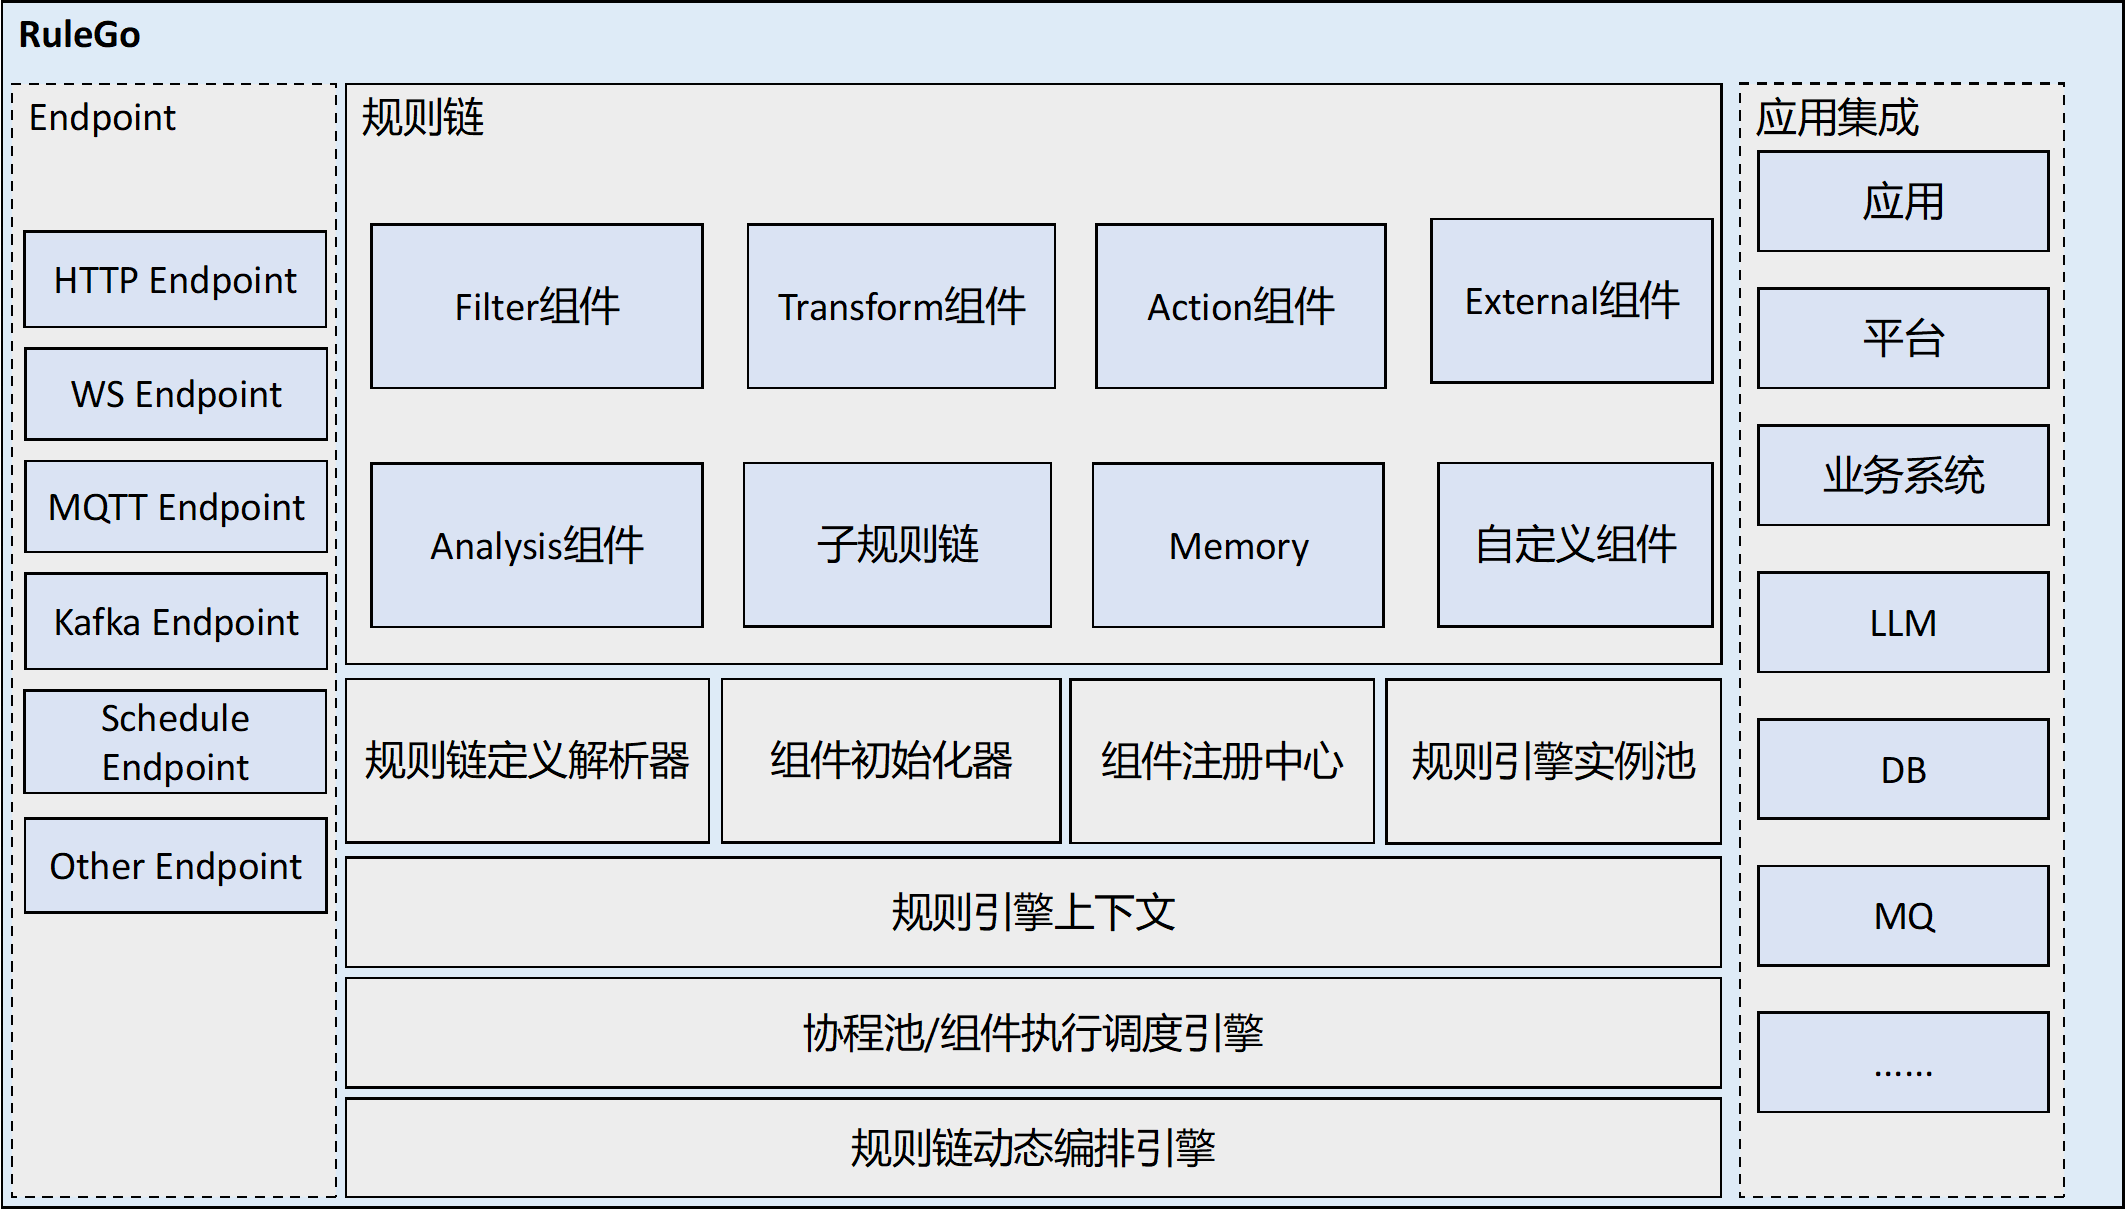
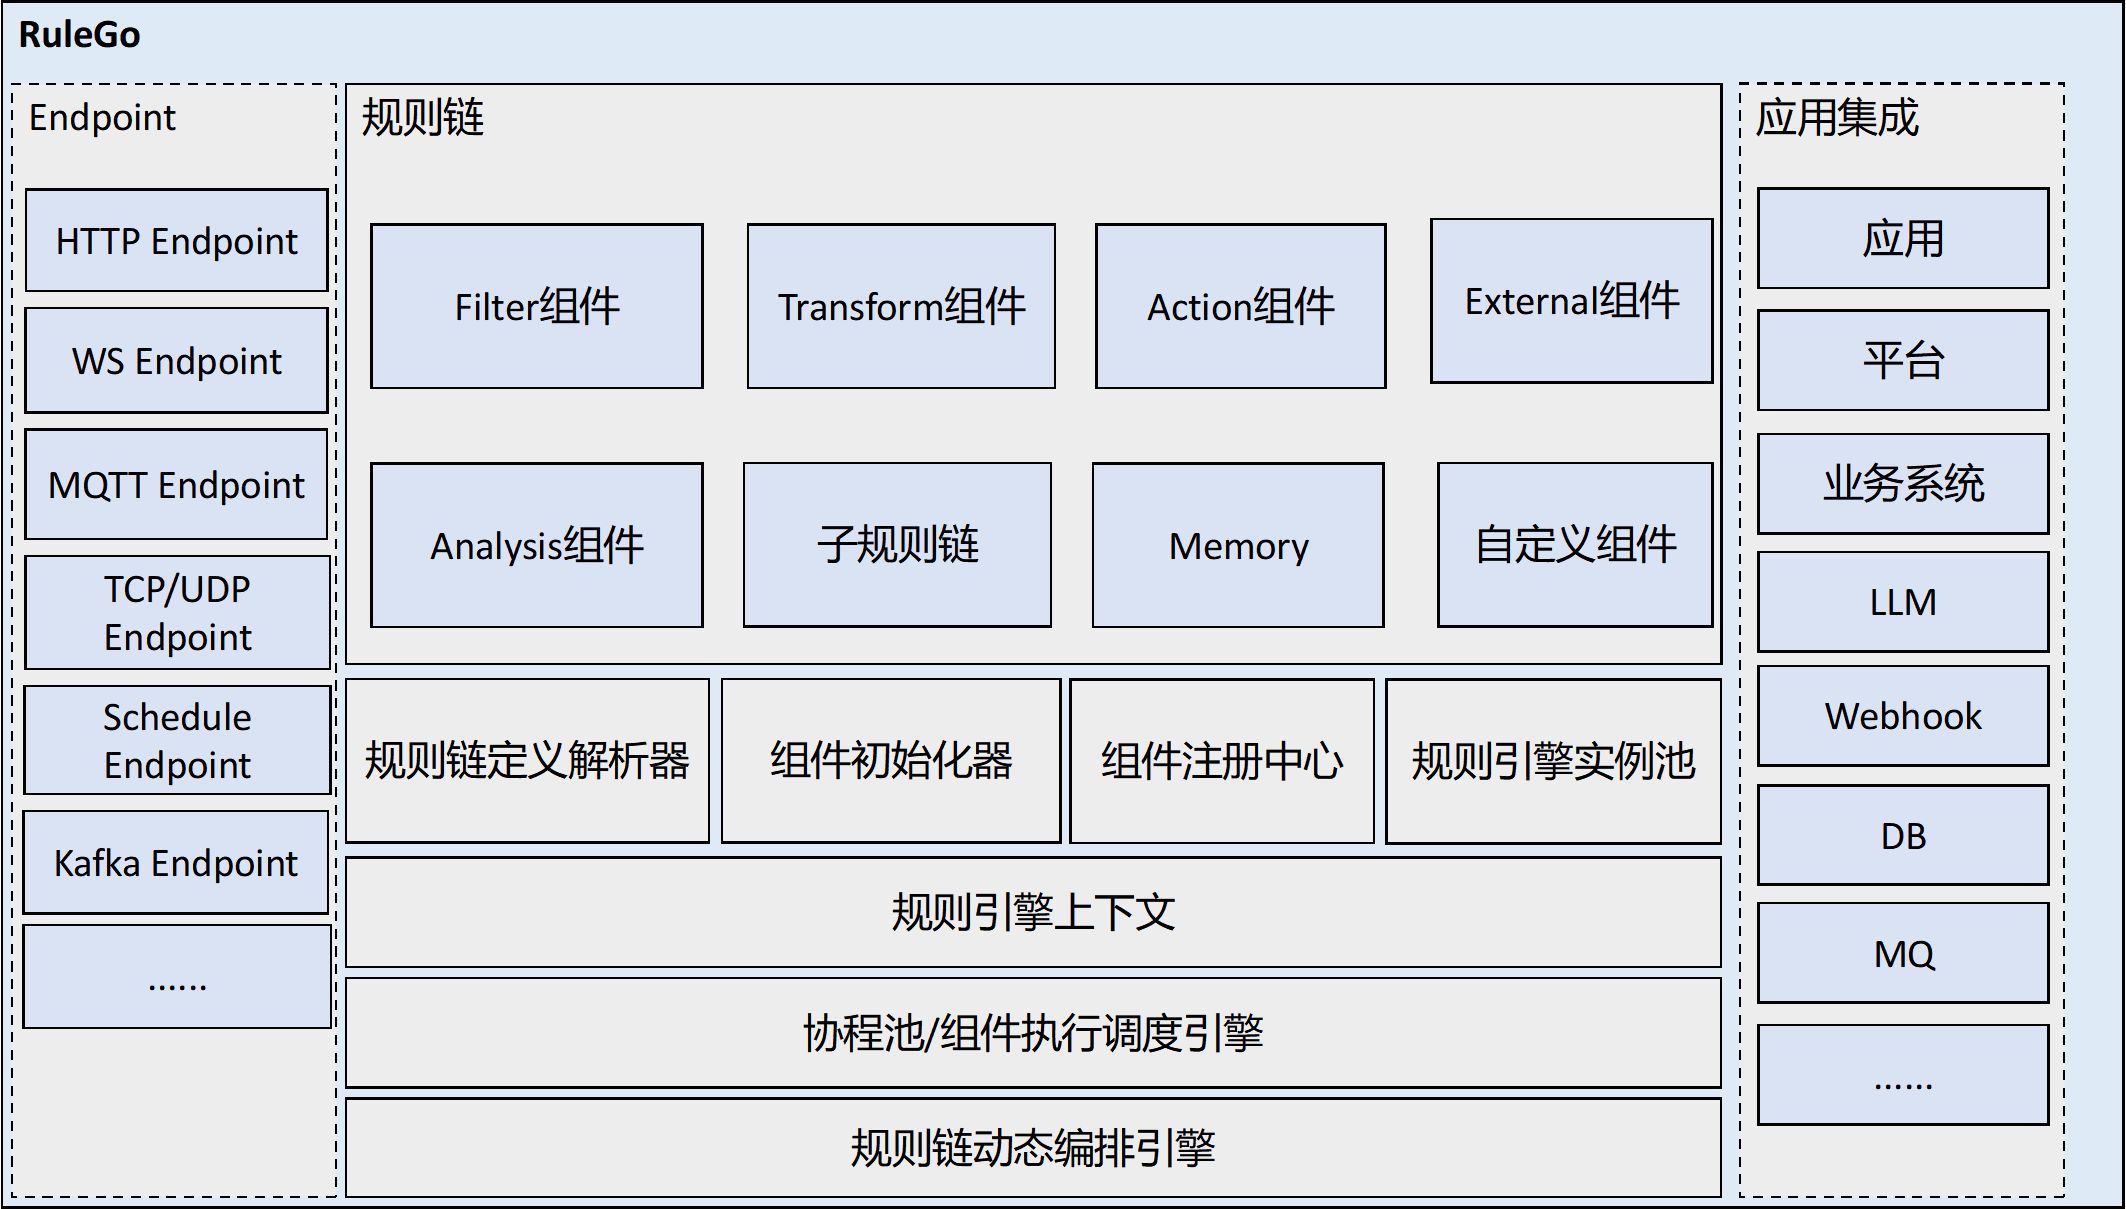
更新架构图和微信群图

diff --git a/docs/01.指南/01.快速入门/02.使用场景.md b/docs/01.指南/01.快速入门/02.使用场景.md
@@ -23,8 +23,8 @@ permalink: /pages/7617e6/
 * **边缘计算：** 可以在边缘服务器部署`RuleGo`，对数据进行预处理，筛选、聚合或者计算后再上报到云端。数据的处理规则和分发规则可以通过规则链动态配置和修改，而不需要重启系统。
 * **物联网：** 收集设备数据上报，经过规则链的规则判断，触发一个或者多个动作，例如：发邮件、发告警、和其他设备或者系统联动。
 * **数据分发：** 可以根据不同的消息类型，调用HTTP、MQTT或者gRPC把数据分发到不同系统。
-* **应用集成：** 把`RuleGo`当做胶水连接各种系统或者协议，例如：kafka、消息队列、数据库、chatGPT、第三方应用系统。
-* **异构系统数据集中处理：** 从不同的数据源（如 MQTT、HTTP 等）接收数据，然后对数据进行过滤、格式转换、然后分发到数据库、业务系统或者仪表板。
+* **应用集成：** 把`RuleGo`当做胶水连接各种系统或者协议，例如：ssh、webhook、kafka、消息队列、数据库、chatGPT、第三方应用系统。
+* **异构系统数据集中处理：** 从不同的数据源（如 MQTT、HTTP、TCP/UDP 等）接收数据，然后对数据进行过滤、格式转换、然后分发到数据库、业务系统或者仪表板。
 * **高度定制化业务：** 把高度定制化或者经常变化的业务解耦出来，交给`RuleGo`规则链进行管理。业务需求变化而不需要重启主程序。
 * **复杂业务编排：** 把业务封装成自定义组件，通过`RuleGo`编排和驱动这些自定义的组件，业务逻辑并支持动态调整和替换。
 * **微服务编排：** 通过`RuleGo`编排和驱动微服务，或者动态调用第三方服务处理业务，并返回结果。

diff --git a/docs/index.md b/docs/index.md
@@ -84,8 +84,8 @@ hideRightBar: true
 * **边缘计算：** 可以在边缘服务器部署`RuleGo`，对数据进行预处理，筛选、聚合或者计算后再上报到云端。数据的处理规则和分发规则可以通过规则链动态配置和修改，而不需要重启系统。
 * **物联网：** 收集设备数据上报，经过规则链的规则判断，触发一个或者多个动作，例如：发邮件、发告警、和其他设备或者系统联动。
 * **数据分发：** 可以根据不同的消息类型，调用HTTP、MQTT或者gRPC把数据分发到不同系统。
-* **应用集成：** 把`RuleGo`当做胶水连接各种系统或者协议，例如：kafka、消息队列、数据库、chatGPT、第三方应用系统。
-* **异构系统数据集中处理：** 从不同的数据源（如 MQTT、HTTP 等）接收数据，然后对数据进行过滤、格式转换、然后分发到数据库、业务系统或者仪表板。
+* **应用集成：** 把`RuleGo`当做胶水连接各种系统或者协议，例如：ssh、webhook、kafka、消息队列、数据库、chatGPT、第三方应用系统。
+* **异构系统数据集中处理：** 从不同的数据源（如 MQTT、HTTP、TCP/UDP 等）接收数据，然后对数据进行过滤、格式转换、然后分发到数据库、业务系统或者仪表板。
 * **高度定制化业务：** 把高度定制化或者经常变化的业务解耦出来，交给`RuleGo`规则链进行管理。业务需求变化而不需要重启主程序。
 * **复杂业务编排：** 把业务封装成自定义组件，通过`RuleGo`编排和驱动这些自定义的组件，业务逻辑并支持动态调整和替换。
 * **微服务编排：** 通过`RuleGo`编排和驱动微服务，或者动态调用第三方服务处理业务，并返回结果。
